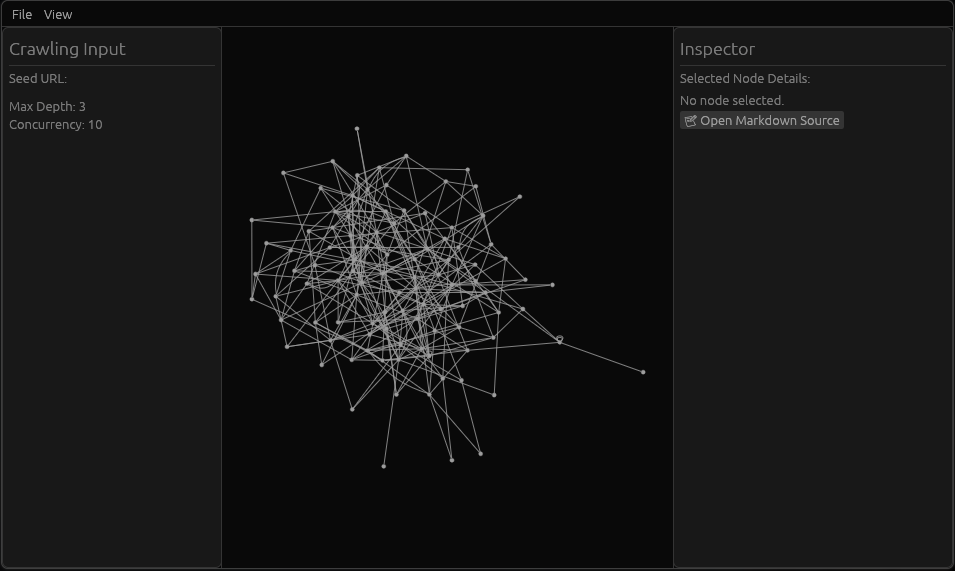
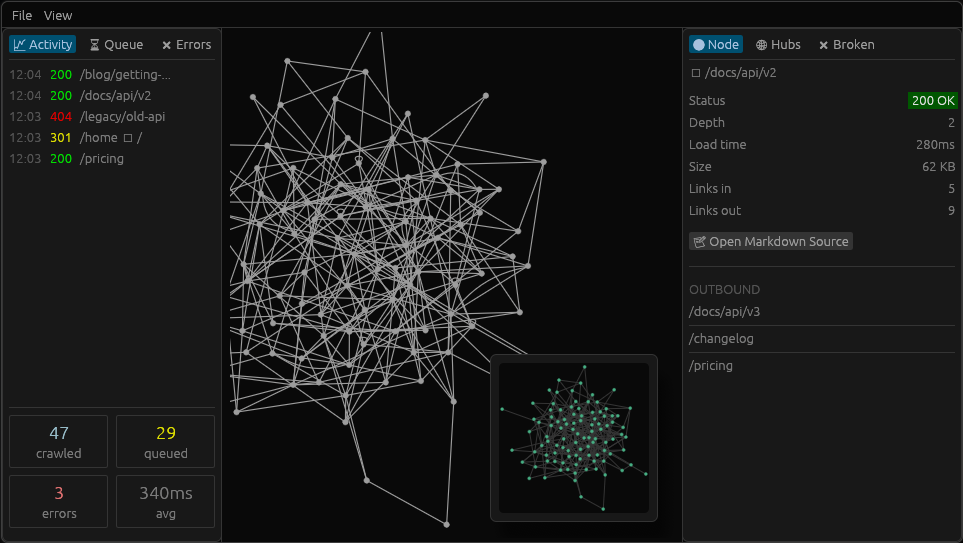
updated screenshot

diff --git a/src/gui.rs b/src/gui.rs
@@ -97,9 +97,16 @@ puppis indagine femori, te fuit et.
     }
 
     pub fn run(&self) -> eframe::Result<()> {
+        let mut options = eframe::NativeOptions::default();
+
+        options.viewport = egui::ViewportBuilder::default()
+            .with_resizable(false)
+            .with_inner_size([1920.0 / 2.0, (1080.0 / 2.0)])
+            .with_active(false);
+
         eframe::run_native(
             "egui_graphs_basic_demo",
-            eframe::NativeOptions::default(),
+            options,
             Box::new(|_context| Ok(Box::new(EguiView::new()))),
         )
     }
@@ -580,8 +587,8 @@ impl eframe::App for EguiView {
                 let settings_navigation = &egui_graphs::SettingsNavigation::new()
                     .with_zoom_and_pan_enabled(true)
                     .with_fit_to_screen_enabled(false);
-                    // .with_zoom_speed(self.settings_navigation.zoom_speed)
-                    // .with_fit_to_screen_padding(self.settings_navigation.fit_to_screen_padding);
+                // .with_zoom_speed(self.settings_navigation.zoom_speed)
+                // .with_fit_to_screen_padding(self.settings_navigation.fit_to_screen_padding);
                 // --- The Graph Widget ---
                 let mut view = egui_graphs::GraphView::<
                     _,
@@ -595,8 +602,7 @@ impl eframe::App for EguiView {
                         egui_graphs::FruchtermanReingoldWithCenterGravity,
                     >,
                 >::new(&mut self.graph)
-                    .with_navigations(settings_navigation)
-                ;
+                .with_navigations(settings_navigation);
 
                 ui.add(&mut view);
 